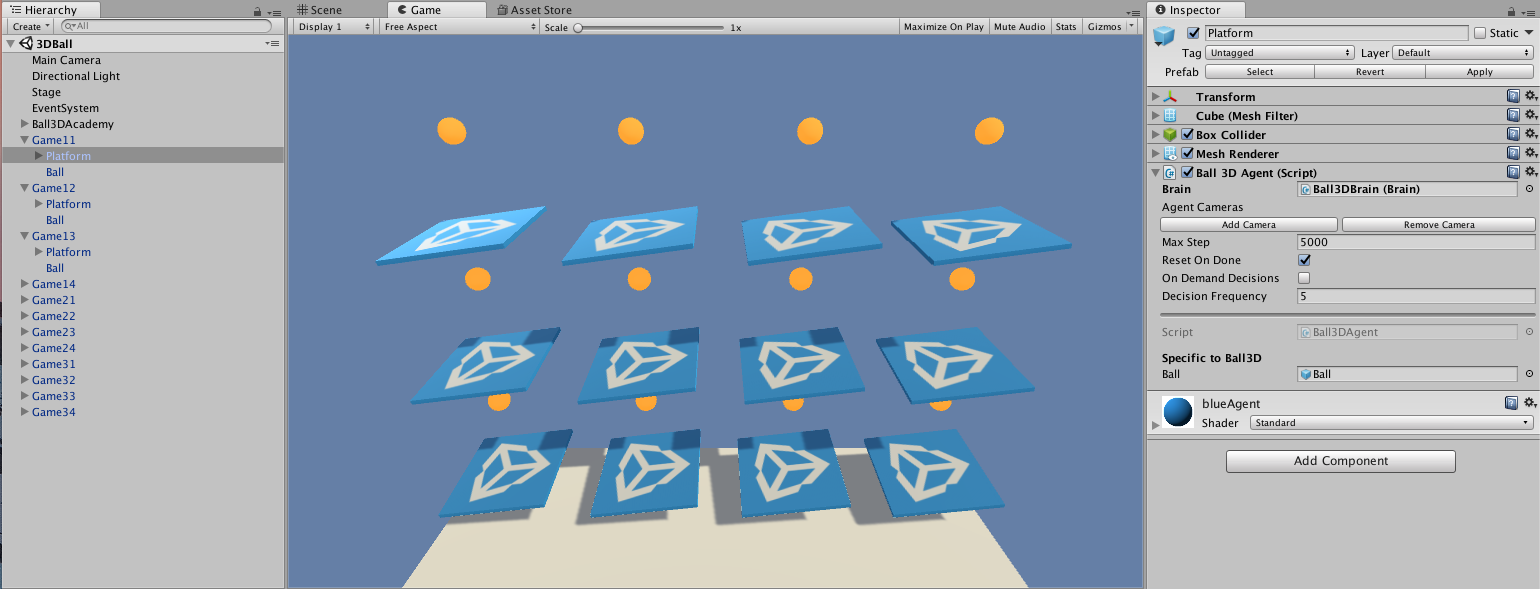
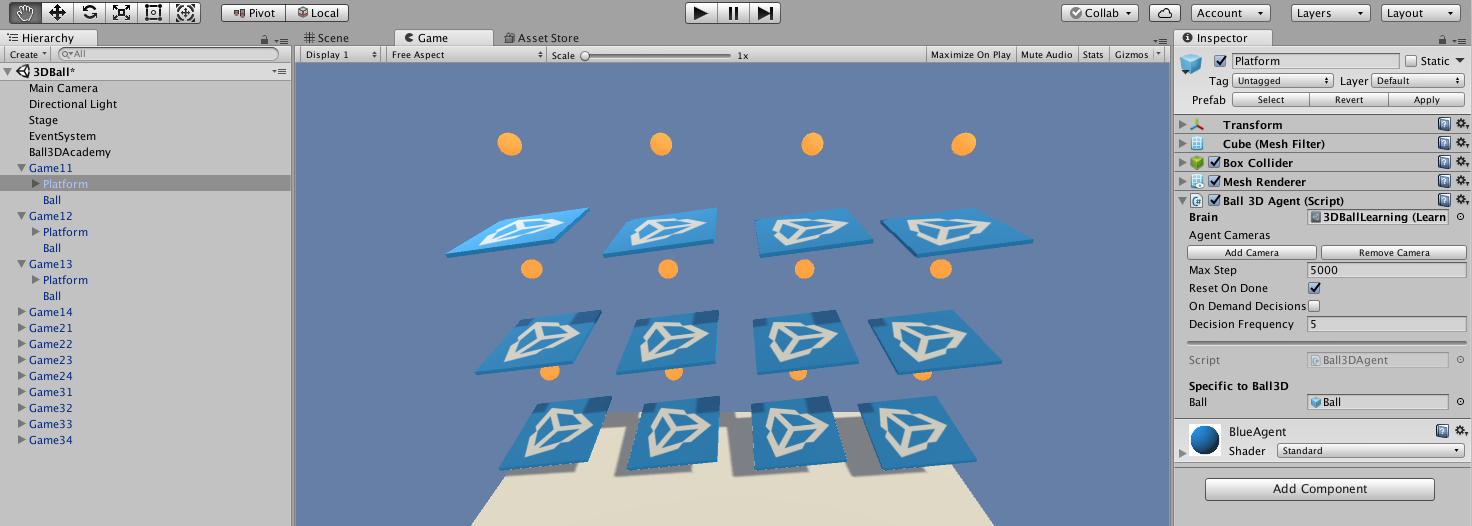
Minor fixes to Create New and Executable tutorials (#1486)
* Wording and filepath changes to tutorials

* Retake editor images to match v0.6

Retake editor images so that the filepaths and Brain names match what they actually are.

diff --git a/docs/Learning-Environment-Create-New.md b/docs/Learning-Environment-Create-New.md
@@ -65,11 +65,11 @@ The "physical" components of the environment include a Plane to act as the floor
 for the Agent to move around on, a Cube to act as the goal or target for the
 agent to seek, and a Sphere to represent the Agent itself.
 
-### Create the floor plane
+### Create the Floor Plane
 
 1. Right click in Hierarchy window, select 3D Object > Plane.
 2. Name the GameObject "Floor."
-3. Select Plane to view its properties in the Inspector window.
+3. Select the Floor Plane to view its properties in the Inspector window.
 4. Set Transform to Position = (0, 0, 0), Rotation = (0, 0, 0), Scale = (1, 1, 1).
 5. On the Plane's Mesh Renderer, expand the Materials property and change the
     default-material to *LightGridFloorSquare* (or any suitable material of your choice).
@@ -84,7 +84,7 @@ different material from the list of all materials currently in the project.)
 
 1. Right click in Hierarchy window, select 3D Object > Cube.
 2. Name the GameObject "Target"
-3. Select Target to view its properties in the Inspector window.
+3. Select the Target Cube to view its properties in the Inspector window.
 4. Set Transform to Position = (3, 0.5, 3), Rotation = (0, 0, 0), Scale = (1, 1, 1).
 5. On the Cube's Mesh Renderer, expand the Materials property and change the
     default-material to *Block*.
@@ -95,7 +95,7 @@ different material from the list of all materials currently in the project.)
 
 1. Right click in Hierarchy window, select 3D Object > Sphere.
 2. Name the GameObject "RollerAgent"
-3. Select Target to view its properties in the Inspector window.
+3. Select the RollerAgent Sphere to view its properties in the Inspector window.
 4. Set Transform to Position = (0, 0.5, 0), Rotation = (0, 0, 0), Scale = (1, 1, 1).
 5. On the Sphere's Mesh Renderer, expand the Materials property and change the
     default-material to *CheckerSquare*.
@@ -162,7 +162,7 @@ in the Inspector window.
 
 The Brain object encapsulates the decision making process. An Agent sends its
 observations to its Brain and expects a decision in return. The type of the Brain
-(Learning, Heuristic or player) determines how the Brain makes decisions. 
+(Learning, Heuristic or Player) determines how the Brain makes decisions. 
 To create the Brain:
 
 1. Go to **Assets** > **Create** > **ML-Agents** and select the type of Brain asset

diff --git a/docs/Learning-Environment-Executable.md b/docs/Learning-Environment-Executable.md
@@ -21,7 +21,7 @@ environment:
 3. Using the file dialog that opens, locate the `UnitySDK` folder within the
    ML-Agents project and click **Open**.
 4. In the **Project** window, navigate to the folder
-   `Assets/ML-Agents/Examples/3DBall/`.
+   `Assets/ML-Agents/Examples/3DBall/Scenes/`.
 5. Double-click the `3DBall` file to load the scene containing the Balance Ball
    environment.
 
@@ -30,7 +30,10 @@ environment:
 Make sure the Brains in the scene have the right type. For example, if you want
 to be able to control your agents from Python, you will need to put the Brain
 controlling the Agents to be a **Learning Brain** and drag it into the
-Academy's `Broadcast Hub` with the `Control`  checkbox checked.
+Academy's `Broadcast Hub` with the `Control` checkbox checked. In the 3DBall
+scene, this can be done in the Platform GameObject within the Game prefab in 
+`Assets/ML-Agents/Examples/3DBall/Prefabs/`, or in each instance of the 
+Platform in the Scene.
 
 Next, we want the set up scene to play correctly when the training process
 launches our environment executable. This means:
@@ -48,7 +51,7 @@ launches our environment executable. This means:
    * (optional) Select “Development Build” to [log debug
       messages](https://docs.unity3d.com/Manual/LogFiles.html).
 5. If any scenes are shown in the **Scenes in Build** list, make sure that the
-   3DBall Scene is the only one checked. (If the list is empty, than only the
+   3DBall Scene is the only one checked. (If the list is empty, then only the
    current scene is included in the build).
 6. Click **Build**:
    * In the File dialog, navigate to your ML-Agents directory.
